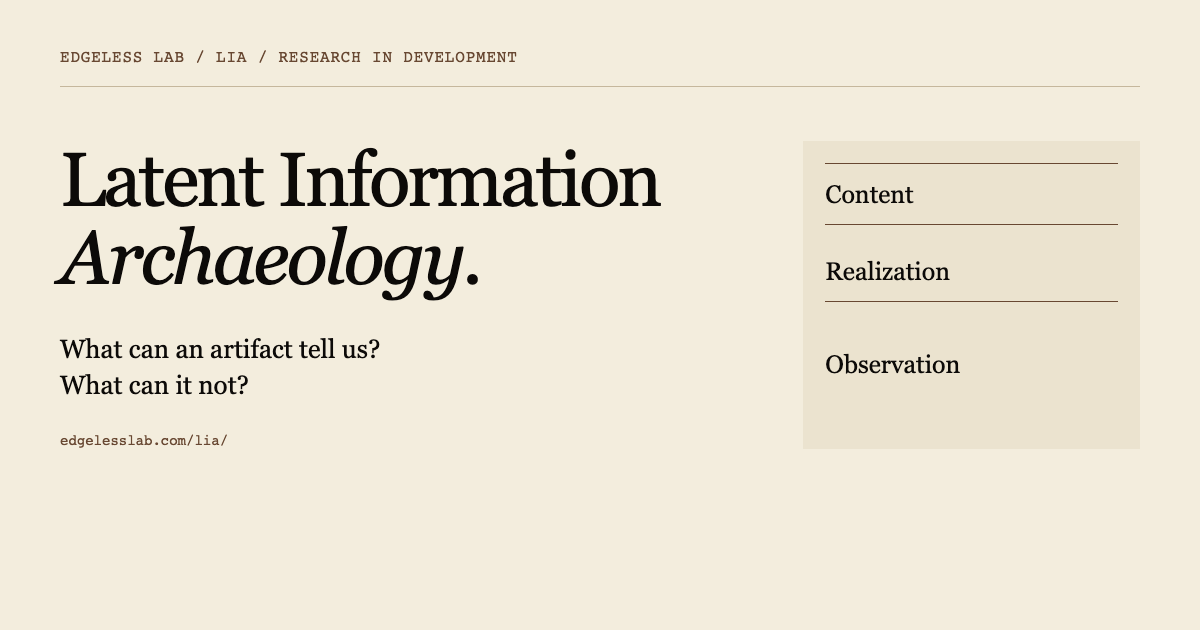
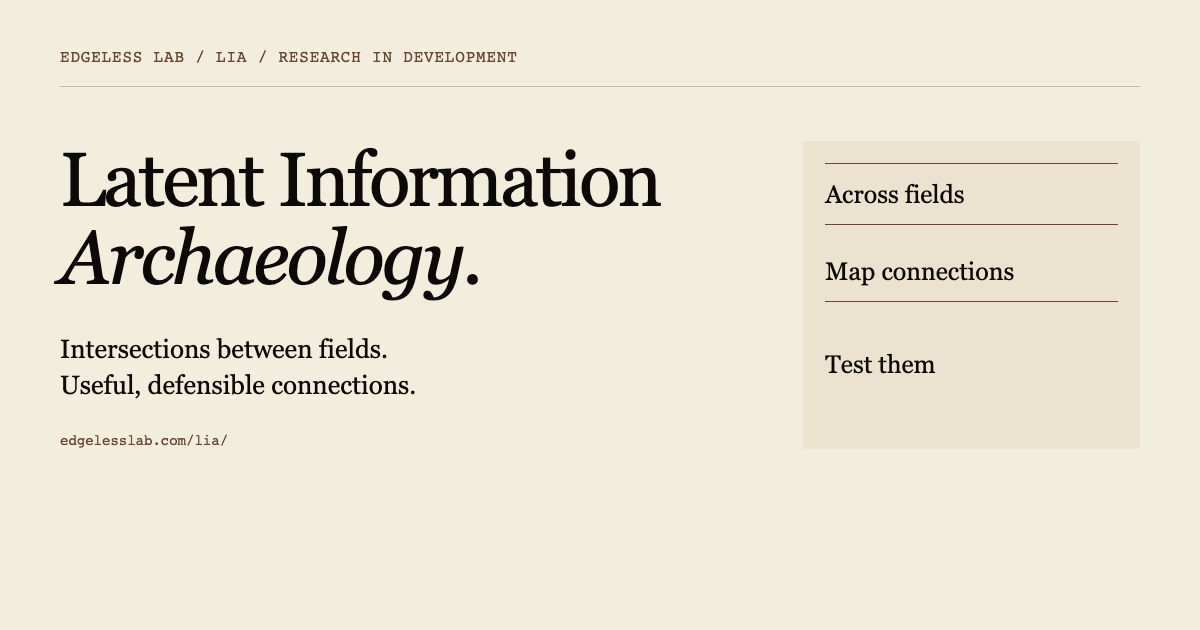
Fix LIA public definition to intersections between fields

diff --git a/public/lia/index.html b/public/lia/index.html
@@ -1,15 +1,14 @@
 <!doctype html>
-<html lang="en"><head><meta charset="utf-8"><meta name="viewport" content="width=device-width,initial-scale=1"><title>Latent Information Archaeology | Edgeless Lab</title><meta name="description" content="A research program about artifacts, production choices, and the limits of inference."><link rel="canonical" href="https://edgelesslab.com/lia/"><meta property="og:type" content="article"><meta property="og:title" content="Latent Information Archaeology"><meta property="og:description" content="A research program about artifacts, production choices, and the limits of inference."><meta property="og:url" content="https://edgelesslab.com/lia/"><meta property="og:image" content="https://edgelesslab.com/lia/og-image.png"><meta property="og:image:width" content="1200"><meta property="og:image:height" content="630"><meta property="og:image:alt" content="Latent Information Archaeology: content, realization, observation"><meta name="twitter:card" content="summary_large_image"><meta name="twitter:image" content="https://edgelesslab.com/lia/og-image.png"><style>
+<html lang="en"><head><meta charset="utf-8"><meta name="viewport" content="width=device-width,initial-scale=1"><title>Latent Information Archaeology | Edgeless Lab</title><meta name="description" content="LIA studies the intersections between fields: useful, defensible connections across bodies of knowledge."><link rel="canonical" href="https://edgelesslab.com/lia/"><meta property="og:type" content="article"><meta property="og:title" content="Latent Information Archaeology"><meta property="og:description" content="LIA studies the intersections between fields: useful, defensible connections across bodies of knowledge."><meta property="og:url" content="https://edgelesslab.com/lia/"><meta property="og:image" content="https://edgelesslab.com/lia/og-image.png"><meta property="og:image:width" content="1200"><meta property="og:image:height" content="630"><meta property="og:image:alt" content="Latent Information Archaeology: intersections between fields"><meta name="twitter:card" content="summary_large_image"><meta name="twitter:image" content="https://edgelesslab.com/lia/og-image.png"><style>
 :root{color-scheme:light;--paper:#f3eddd;--deep:#ebe3cf;--ink:#0c0a08;--soft:#2a2520;--accent:#684832;--rule:#c5b79c}
 *{box-sizing:border-box}body{margin:0;background:var(--paper);color:var(--ink);font:19px/1.7 Georgia,'Times New Roman',serif}a{color:var(--accent);text-decoration-thickness:1px;text-underline-offset:.22em}a:hover{color:var(--ink)}a:focus-visible{outline:2px solid var(--accent);outline-offset:5px}.skip{position:absolute;top:-100px;left:20px}.skip:focus{top:10px;background:var(--paper);padding:10px;z-index:2}.meta,nav,footer,.label{font:12px/1.6 ui-monospace,'SF Mono',monospace;letter-spacing:.06em}.meta{display:flex;justify-content:space-between;gap:20px;padding:18px 5vw;border-bottom:1px solid var(--rule)}nav{display:flex;flex-wrap:wrap;gap:12px 28px;padding:18px 5vw}nav a{padding:6px 0}main{max-width:1280px;margin:auto;padding:54px 5vw 100px}h1,h2,h3{font-weight:400;line-height:1.08;text-wrap:balance}h1{font-size:clamp(3.1rem,7vw,6rem);letter-spacing:-.035em;margin:22px 0 34px}h2{font-size:clamp(2rem,4vw,2.8rem);margin:64px 0 24px}h3{font-size:1.65rem;margin:36px 0 18px}p{margin:0 0 24px}.label{color:var(--accent)}.hero{display:grid;grid-template-columns:1.4fr .6fr;gap:60px;align-items:end;padding-bottom:56px;border-bottom:1px solid var(--ink)}.deck{max-width:36ch;font-size:24px;line-height:1.4;font-style:italic}.strata{margin:0;background:var(--deep);padding:26px 22px}.strata div{border-top:1px solid var(--accent);padding:14px 0;font-size:17px}.strata div:nth-child(2){padding-top:24px}.strata div:nth-child(3){padding-top:38px}.strata figcaption{font:12px/1.6 ui-monospace,monospace;color:var(--soft);margin-top:20px}.reading{max-width:68ch}.intro{margin:58px 0 70px}.index{border-top:1px solid var(--ink);padding-top:10px}.index li{margin-bottom:28px;padding-left:6px}.index ul{padding-left:22px;max-width:70ch}.index a{font-size:24px}.note-header{max-width:1000px;border-bottom:1px solid var(--ink);padding-bottom:30px}.note-layout{display:grid;grid-template-columns:220px minmax(0,1fr);gap:65px;margin-top:48px}.toc{font:14px/1.6 ui-monospace,monospace}.toc ol{padding-left:20px}.toc li{margin-bottom:16px}.toc a{display:inline-block;padding:4px 0}article{min-width:0}article h2:first-of-type{margin-top:48px}blockquote{margin:36px 0;padding:24px 0;border-block:1px solid var(--accent);font-size:25px;line-height:1.4}blockquote p{margin:0}footer{padding:30px 5vw;border-top:1px solid var(--rule);display:flex;justify-content:space-between;gap:24px;flex-wrap:wrap}footer a{margin-right:22px}::selection{background:var(--accent);color:var(--paper)}@media(max-width:760px){body{font-size:18px}.meta{font-size:11px;flex-wrap:wrap;gap:6px}main{padding-top:30px}.hero{grid-template-columns:1fr;gap:24px}.strata{max-width:100%}.note-layout{grid-template-columns:1fr;gap:30px}.toc{border-bottom:1px solid var(--rule);padding-bottom:24px}.deck{font-size:22px}.index a{font-size:22px}}
 </style></head>
-<body><a class="skip" href="#main-content">Skip to content</a><header><div class="meta"><span>EDGELESS LAB / LATENT INFORMATION ARCHAEOLOGY</span><span>RESEARCH IN DEVELOPMENT</span></div><nav aria-label="Main navigation"><a href="/">Edgeless Lab</a><a href="/field-notes/">Field Notes</a><a href="/lia/" aria-current="page">LIA</a><a href="/blog/">Blog</a><a href="https://shop.edgelesslab.com">Shop</a></nav></header><main id="main-content" tabindex="-1"><div class="hero"><div><div class="label">LIA / an Edgeless Lab research program</div><h1>Latent Information<br><em>Archaeology.</em></h1></div><figure class="strata"><div>Content<br><em>What the artifact says</em></div><div>Realization<br><em>How it takes form</em></div><div>Observation<br><em>What reaches us</em></div><figcaption>A working distinction, not a universal model.</figcaption></figure></div><section class="intro reading"><h2 id="what-is-lia">What is LIA?</h2>
-<p>Latent Information Archaeology is an Edgeless Lab research program about the difference between an artifact's content and the way that content takes form. Its founding question is practical: what can choices of spelling, layout, notation, formatting, or structure tell us about the circumstances of production—and what can they not tell us?</p>
-<p>LIA proposes a shared vocabulary for comparing such questions without erasing the differences between clay tablets, printed pages, and digital files. A pattern might reflect a tool, a habit, a convention, a constraint, or a later transformation. Calling it information does not establish intention, and successful prediction does not by itself identify who made a choice or why.</p>
-<p>This section begins with a methodological field note and two interactive creative demos. The note reads published precedents and explains the proposed discipline: name the representation, separate observation from explanation, check attribution and selection, and preserve “unidentified” as an honest outcome. The demos are exploratory interfaces, not empirical confirmation of the research framework. One concerns the software artist LIA: that shared name is not an identification of the artist with this research program.</p>
-<p>The program's proposed value is something to test against existing approaches. This is a place to inspect questions and instruments in development, not an announcement that a hidden message or a new historical mechanism has been discovered.</p></section><section class="index" data-lia-index><h2 id="explore-lia">Explore LIA</h2>
-<h3>Field note</h3>
-<ul><li><a href="/lia/building-an-instrument-that-can-say-no/">Building an Instrument That Can Say No</a> — A methodological proposal with public sources and explicit limits; not an empirical discovery announcement.</li></ul>
+<body><a class="skip" href="#main-content">Skip to content</a><header><div class="meta"><span>EDGELESS LAB / LATENT INFORMATION ARCHAEOLOGY</span><span>RESEARCH IN DEVELOPMENT</span></div><nav aria-label="Main navigation"><a href="/">Edgeless Lab</a><a href="/field-notes/">Field Notes</a><a href="/lia/" aria-current="page">LIA</a><a href="/blog/">Blog</a><a href="https://shop.edgelesslab.com">Shop</a></nav></header><main id="main-content" tabindex="-1"><div class="hero"><div><div class="label">LIA / an Edgeless Lab research program</div><h1>Latent Information<br><em>Archaeology.</em></h1><p class="deck">Latent Information Archaeology studies the intersections between fields: useful, defensible connections across bodies of knowledge.</p></div><figure class="strata"><div>Across fields<br><em>Science, humanities, art, engineering</em></div><div>Map the connection<br><em>Prior art and disanalogies</em></div><div>Test it<br><em>A useful consequence, a discriminating test</em></div><figcaption>A connection is a question to test, not a discovery to announce.</figcaption></figure></div><section class="intro reading"><h2 id="what-is-lia">What is LIA?</h2>
+<p>Latent Information Archaeology studies the intersections between fields: useful, defensible connections across bodies of knowledge.</p>
+<p>LIA explores connections across science, mathematics, humanities, engineering, history, art, books, libraries, and institutions. A connection needs a mapping, prior art, disanalogies, a useful consequence, and a discriminating test. Shared vocabulary or model agreement does not establish a discovery.</p>
+<p>This section collects work in development, not confirmed discoveries. The methods note considers the limits of inference in one area: reading artifacts. It does not define the scope of LIA. The creative demos are exploratory interfaces, not empirical validation. One concerns the software artist LIA, who is distinct from this research program.</p></section><section class="index" data-lia-index><h2 id="explore-lia">Explore LIA</h2>
+<h3>Methods note</h3>
+<ul><li><a href="/lia/building-an-instrument-that-can-say-no/">Building an Instrument That Can Say No</a> — A methods note on reading artifacts and the limits of inference, not a definition of LIA or an empirical discovery announcement.</li></ul>
 <h3>Related creative demos</h3>
 <p>These existing Edgeless Lab demos are contextual links, not research results or validation of Latent Information Archaeology.</p>
 <ul><li><a href="/creative-demos/code-as-a-field-of-relation/">Code as a Field of Relation</a> — A graph-based exploration of the software artist LIA's practice. The artist and this research program share a name; the page is not a history of the research program.</li><li><a href="/creative-demos/the-rule-and-the-machine/">The Rule and the Machine</a> — A graph-based exploration of generative art and rule-based making.</li></ul>

diff --git a/public/lia/building-an-instrument-that-can-say-no/index.html b/public/lia/building-an-instrument-that-can-say-no/index.html
@@ -1,11 +1,11 @@
 <!doctype html>
-<html lang="en"><head><meta charset="utf-8"><meta name="viewport" content="width=device-width,initial-scale=1"><title>Building an Instrument That Can Say No | Edgeless Lab</title><meta name="description" content="A research-method field note about reading artifacts without turning a pattern into an unsupported story."><link rel="canonical" href="https://edgelesslab.com/lia/building-an-instrument-that-can-say-no/"><meta property="og:type" content="article"><meta property="og:title" content="Building an Instrument That Can Say No"><meta property="og:description" content="A research-method field note about reading artifacts without turning a pattern into an unsupported story."><meta property="og:url" content="https://edgelesslab.com/lia/building-an-instrument-that-can-say-no/"><meta property="og:image" content="https://edgelesslab.com/lia/og-image.png"><meta property="og:image:width" content="1200"><meta property="og:image:height" content="630"><meta property="og:image:alt" content="Latent Information Archaeology: content, realization, observation"><meta name="twitter:card" content="summary_large_image"><meta name="twitter:image" content="https://edgelesslab.com/lia/og-image.png"><style>
+<html lang="en"><head><meta charset="utf-8"><meta name="viewport" content="width=device-width,initial-scale=1"><title>Building an Instrument That Can Say No | Edgeless Lab</title><meta name="description" content="A research-method field note about reading artifacts without turning a pattern into an unsupported story."><link rel="canonical" href="https://edgelesslab.com/lia/building-an-instrument-that-can-say-no/"><meta property="og:type" content="article"><meta property="og:title" content="Building an Instrument That Can Say No"><meta property="og:description" content="A research-method field note about reading artifacts without turning a pattern into an unsupported story."><meta property="og:url" content="https://edgelesslab.com/lia/building-an-instrument-that-can-say-no/"><meta property="og:image" content="https://edgelesslab.com/lia/og-image.png"><meta property="og:image:width" content="1200"><meta property="og:image:height" content="630"><meta property="og:image:alt" content="Latent Information Archaeology: intersections between fields"><meta name="twitter:card" content="summary_large_image"><meta name="twitter:image" content="https://edgelesslab.com/lia/og-image.png"><style>
 :root{color-scheme:light;--paper:#f3eddd;--deep:#ebe3cf;--ink:#0c0a08;--soft:#2a2520;--accent:#684832;--rule:#c5b79c}
 *{box-sizing:border-box}body{margin:0;background:var(--paper);color:var(--ink);font:19px/1.7 Georgia,'Times New Roman',serif}a{color:var(--accent);text-decoration-thickness:1px;text-underline-offset:.22em}a:hover{color:var(--ink)}a:focus-visible{outline:2px solid var(--accent);outline-offset:5px}.skip{position:absolute;top:-100px;left:20px}.skip:focus{top:10px;background:var(--paper);padding:10px;z-index:2}.meta,nav,footer,.label{font:12px/1.6 ui-monospace,'SF Mono',monospace;letter-spacing:.06em}.meta{display:flex;justify-content:space-between;gap:20px;padding:18px 5vw;border-bottom:1px solid var(--rule)}nav{display:flex;flex-wrap:wrap;gap:12px 28px;padding:18px 5vw}nav a{padding:6px 0}main{max-width:1280px;margin:auto;padding:54px 5vw 100px}h1,h2,h3{font-weight:400;line-height:1.08;text-wrap:balance}h1{font-size:clamp(3.1rem,7vw,6rem);letter-spacing:-.035em;margin:22px 0 34px}h2{font-size:clamp(2rem,4vw,2.8rem);margin:64px 0 24px}h3{font-size:1.65rem;margin:36px 0 18px}p{margin:0 0 24px}.label{color:var(--accent)}.hero{display:grid;grid-template-columns:1.4fr .6fr;gap:60px;align-items:end;padding-bottom:56px;border-bottom:1px solid var(--ink)}.deck{max-width:36ch;font-size:24px;line-height:1.4;font-style:italic}.strata{margin:0;background:var(--deep);padding:26px 22px}.strata div{border-top:1px solid var(--accent);padding:14px 0;font-size:17px}.strata div:nth-child(2){padding-top:24px}.strata div:nth-child(3){padding-top:38px}.strata figcaption{font:12px/1.6 ui-monospace,monospace;color:var(--soft);margin-top:20px}.reading{max-width:68ch}.intro{margin:58px 0 70px}.index{border-top:1px solid var(--ink);padding-top:10px}.index li{margin-bottom:28px;padding-left:6px}.index ul{padding-left:22px;max-width:70ch}.index a{font-size:24px}.note-header{max-width:1000px;border-bottom:1px solid var(--ink);padding-bottom:30px}.note-layout{display:grid;grid-template-columns:220px minmax(0,1fr);gap:65px;margin-top:48px}.toc{font:14px/1.6 ui-monospace,monospace}.toc ol{padding-left:20px}.toc li{margin-bottom:16px}.toc a{display:inline-block;padding:4px 0}article{min-width:0}article h2:first-of-type{margin-top:48px}blockquote{margin:36px 0;padding:24px 0;border-block:1px solid var(--accent);font-size:25px;line-height:1.4}blockquote p{margin:0}footer{padding:30px 5vw;border-top:1px solid var(--rule);display:flex;justify-content:space-between;gap:24px;flex-wrap:wrap}footer a{margin-right:22px}::selection{background:var(--accent);color:var(--paper)}@media(max-width:760px){body{font-size:18px}.meta{font-size:11px;flex-wrap:wrap;gap:6px}main{padding-top:30px}.hero{grid-template-columns:1fr;gap:24px}.strata{max-width:100%}.note-layout{grid-template-columns:1fr;gap:30px}.toc{border-bottom:1px solid var(--rule);padding-bottom:24px}.deck{font-size:22px}.index a{font-size:22px}}
 </style></head>
 <body><a class="skip" href="#main-content">Skip to content</a><header><div class="meta"><span>EDGELESS LAB / LATENT INFORMATION ARCHAEOLOGY</span><span>RESEARCH IN DEVELOPMENT</span></div><nav aria-label="Main navigation"><a href="/">Edgeless Lab</a><a href="/field-notes/">Field Notes</a><a href="/lia/">LIA</a><a href="/blog/">Blog</a><a href="https://shop.edgelesslab.com">Shop</a></nav></header><main id="main-content" tabindex="-1"><header class="note-header"><div class="label">Field Notes / methodology / filed 2026.11.18</div><h1>Building an Instrument That Can Say No</h1><p class="deck">A research-method field note about reading artifacts without turning a pattern into an unsupported story.</p></header><div class="note-layout"><aside class="toc"><nav aria-label="In this field note"><div>IN THIS FIELD NOTE<ol><li><a href="#what-latent-information-means-here">What “latent information” means here</a></li><li><a href="#start-with-what-other-fields-already-know">Start with what other fields already know</a></li><li><a href="#the-observer-is-part-of-the-problem">The observer is part of the problem</a></li><li><a href="#attribution-is-not-identity-and-identity-is-not-agency">Attribution is not identity, and identity is not agency</a></li><li><a href="#a-real-analogy-can-still-be-old">A real analogy can still be old</a></li><li><a href="#what-an-instrument-would-have-to-demonstrate">What an instrument would have to demonstrate</a></li></ol></div></nav></aside><article class="reading"><p><em>Latent Information Archaeology — an Edgeless Lab research program.</em></p>
 <p>A pattern is not yet an explanation. A spelling, a mark in clay, or a repeated source-code idiom can invite a story about the person who made it. The harder question is whether the evidence supports that story rather than another one.</p>
-<p>Latent Information Archaeology, or LIA, is our proposal for asking that question across artifact types. This field note presents a working vocabulary and a reading of published examples, <strong>not a report of a new empirical discovery</strong>. Its ambition is an instrument that can help a claim be earned, bounded, or refused. Whether that instrument adds value beyond existing methods remains a question to test, not an achievement announced here.</p>
+<p>Latent Information Archaeology (LIA) studies the intersections between fields: useful, defensible connections across bodies of knowledge. This methods note addresses one narrower question within that work: inference across artifact types. It is not the definition of the research program. This field note presents a working vocabulary and a reading of published examples, <strong>not a report of a new empirical discovery</strong>. Its ambition is an instrument that can help a claim be earned, bounded, or refused. Whether that instrument adds value beyond existing methods remains a question to test, not an achievement announced here.</p>
 <h2 id="what-latent-information-means-here">What “latent information” means here</h2>
 <p>Our working definition concerns dependence in <em>how</em> content is realized, given specified content and production conditions. “Dependence” means a statistical relationship: learning something about one variable changes what can be predicted about another. It does not mean that a maker intended to communicate. Information theory supplies distinctions between statistical dependence and recoverability; it does not, by itself, identify a historical maker's intention. Scarlett and Cevher's <a href="https://arxiv.org/abs/1901.00555">guide to Fano's inequality</a> explains how information quantities can bound estimation error under explicit assumptions.</p>
 <p>We therefore propose keeping several questions separate. What variation do we observe? Which production choices were actually available? Which person, tool, or process made them? What happened between production and observation? Is the target we want to predict defined independently of the features used to predict it?</p>

diff --git a/tests/lia.spec.ts b/tests/lia.spec.ts
@@ -7,6 +7,11 @@ test('LIA cleared artifacts, registry, privacy and navigation', async ({ page, r
   expect((await request.get('/lia/')).status()).toBe(200);
   await page.goto('/lia/');
   await expect(page.getByRole('heading', { level: 1 })).toContainText('Archaeology');
+  const definition = 'Latent Information Archaeology studies the intersections between fields: useful, defensible connections across bodies of knowledge.';
+  await expect(page.locator('.hero .deck')).toHaveText(definition);
+  await expect(page.locator('.intro p').first()).toHaveText(definition);
+  await expect(page.locator('main')).not.toContainText('the way that content takes form');
+  await expect(page.getByRole('heading', { name: 'Methods note', exact: true })).toBeVisible();
   const indexed = await page.locator('[data-lia-index] a').evaluateAll(nodes => nodes.map(a => a.getAttribute('href')!));
   expect(indexed).toEqual([note.href, '/creative-demos/code-as-a-field-of-relation/', '/creative-demos/the-rule-and-the-machine/']);
   for (const href of indexed) expect((await request.get(href)).status()).toBe(200);

diff --git a/src/app/llms.txt/route.ts b/src/app/llms.txt/route.ts
@@ -78,7 +78,7 @@ export async function GET(): Promise<Response> {
 
 ## Field Notes (interactive, readable without JavaScript)
 
-- [Latent Information Archaeology](${SITE_URL}/lia/): a research program about artifact realization and the limits of inference; demos are contextual, not empirical validation
+- [Latent Information Archaeology](${SITE_URL}/lia/): a research program studying intersections between fields and useful, defensible connections across bodies of knowledge; demos are contextual, not empirical validation
 ${researchFieldNotes.map(note => `- [${note.title}](${SITE_URL}${note.href}) (${note.date}, methodological field note): ${note.description}`).join("\n")}
 
 ${fieldNotes.map(fieldNoteLine).join("\n")}

diff --git a/scripts/build-lia.py b/scripts/build-lia.py
@@ -48,7 +48,7 @@ CSS = '''
 
 def page(title, description, path, body):
     return f'''<!doctype html>
-<html lang="en"><head><meta charset="utf-8"><meta name="viewport" content="width=device-width,initial-scale=1"><title>{title} | Edgeless Lab</title><meta name="description" content="{description}"><link rel="canonical" href="https://edgelesslab.com{path}"><meta property="og:type" content="article"><meta property="og:title" content="{title}"><meta property="og:description" content="{description}"><meta property="og:url" content="https://edgelesslab.com{path}"><meta property="og:image" content="https://edgelesslab.com/lia/og-image.png"><meta property="og:image:width" content="1200"><meta property="og:image:height" content="630"><meta property="og:image:alt" content="Latent Information Archaeology: content, realization, observation"><meta name="twitter:card" content="summary_large_image"><meta name="twitter:image" content="https://edgelesslab.com/lia/og-image.png"><style>{CSS}</style></head>
+<html lang="en"><head><meta charset="utf-8"><meta name="viewport" content="width=device-width,initial-scale=1"><title>{title} | Edgeless Lab</title><meta name="description" content="{description}"><link rel="canonical" href="https://edgelesslab.com{path}"><meta property="og:type" content="article"><meta property="og:title" content="{title}"><meta property="og:description" content="{description}"><meta property="og:url" content="https://edgelesslab.com{path}"><meta property="og:image" content="https://edgelesslab.com/lia/og-image.png"><meta property="og:image:width" content="1200"><meta property="og:image:height" content="630"><meta property="og:image:alt" content="Latent Information Archaeology: intersections between fields"><meta name="twitter:card" content="summary_large_image"><meta name="twitter:image" content="https://edgelesslab.com/lia/og-image.png"><style>{CSS}</style></head>
 <body><a class="skip" href="#main-content">Skip to content</a><header><div class="meta"><span>EDGELESS LAB / LATENT INFORMATION ARCHAEOLOGY</span><span>RESEARCH IN DEVELOPMENT</span></div><nav aria-label="Main navigation"><a href="/">Edgeless Lab</a><a href="/field-notes/">Field Notes</a><a href="/lia/"{' aria-current="page"' if path == '/lia/' else ''}>LIA</a><a href="/blog/">Blog</a><a href="https://shop.edgelesslab.com">Shop</a></nav></header><main id="main-content" tabindex="-1">{body}</main><footer><span>Edgeless Lab / public research studio</span><div><a href="/lia/">LIA index</a><a href="/field-notes/">Field Notes</a><a href="/about/">About</a></div></footer></body></html>'''
 
 
@@ -57,9 +57,9 @@ def build():
     intro = (CONTENT / 'lia-section-intro-v0.1.md').read_text()
     index = (CONTENT / 'lia-public-index-v0.1.md').read_text()
     note = (CONTENT / 'field-note-public-draft-v0.3.md').read_text()
-    landing = '''<div class="hero"><div><div class="label">LIA / an Edgeless Lab research program</div><h1>Latent Information<br><em>Archaeology.</em></h1></div><figure class="strata"><div>Content<br><em>What the artifact says</em></div><div>Realization<br><em>How it takes form</em></div><div>Observation<br><em>What reaches us</em></div><figcaption>A working distinction, not a universal model.</figcaption></figure></div>'''
+    landing = '''<div class="hero"><div><div class="label">LIA / an Edgeless Lab research program</div><h1>Latent Information<br><em>Archaeology.</em></h1><p class="deck">Latent Information Archaeology studies the intersections between fields: useful, defensible connections across bodies of knowledge.</p></div><figure class="strata"><div>Across fields<br><em>Science, humanities, art, engineering</em></div><div>Map the connection<br><em>Prior art and disanalogies</em></div><div>Test it<br><em>A useful consequence, a discriminating test</em></div><figcaption>A connection is a question to test, not a discovery to announce.</figcaption></figure></div>'''
     landing += '<section class="intro reading">' + markdown(intro) + '</section><section class="index" data-lia-index>' + markdown(index) + '</section>'
-    (OUT / 'index.html').write_text(page('Latent Information Archaeology', 'A research program about artifacts, production choices, and the limits of inference.', '/lia/', landing))
+    (OUT / 'index.html').write_text(page('Latent Information Archaeology', 'LIA studies the intersections between fields: useful, defensible connections across bodies of knowledge.', '/lia/', landing))
     headings = re.findall(r'^## (.+)$', note, flags=re.M)
     toc = '<aside class="toc"><nav aria-label="In this field note"><div>IN THIS FIELD NOTE<ol>' + ''.join('<li><a href="#' + re.sub(r'[^a-z0-9]+', '-', h.lower()).strip('-') + '">' + html.escape(h) + '</a></li>' for h in headings) + '</ol></div></nav></aside>'
     body = f'<header class="note-header"><div class="label">Field Notes / methodology / filed 2026.11.18</div><h1>{TITLE}</h1><p class="deck">A research-method field note about reading artifacts without turning a pattern into an unsupported story.</p></header><div class="note-layout">' + toc + '<article class="reading">' + markdown(note) + '</article></div>'

diff --git a/docs/lia-publication.md b/docs/lia-publication.md
@@ -18,6 +18,43 @@ Implementation is not a live-publication claim. A critic must inspect the 375px 
 
 The initial local citation probe saw source-site bot walls at SOAS, Southampton PDF, and Oxford Academic. Browser recovery confirms the 403s are security interstitials, not verified missing documents. The UVA source returns 202 but renders the cited Kable article. Do not claim all citation URLs passed. Do not silently replace the approved citation URLs or alter the cleared prose; resolve access checks in the verifier lane or report an explicit remaining limitation.
 
+## Definition correction — 2026-11-25
+
+LIA studies the intersections between fields: useful, defensible connections
+across bodies of knowledge. The hero, introductory source, description/OG tags,
+OG PNG and llms.txt summary now lead with that definition. The versioned intro
+was edited in place, including the upstream project docs copy, so existing
+long-form references do not import the agent-originated, incorrect definition again.
+LIA is and always was about intersections between fields. The artifact-form framing
+was an assistant proposal carried into the docs and site by agents, never David's
+earlier scope or a project evolution. Public copy states the definition directly,
+without an origin/evolution narrative.
+
+The index labels *Building an Instrument That Can Say No* as a methods note,
+and its opening now bounds it as an artifact-inference example rather than the
+program definition. Its deeper content/realization vocabulary, clay/print/code
+examples, historical discussion and citations remain unchanged. The two creative
+demos remain unchanged: their LIA references concern the software artist, not the
+research program. The archive's methods-note title and description still accurately
+describe that narrower note. No discoveries or empirical validation are claimed.
+
+`npm run test:lia` checks generated-byte drift and the definition in the hero,
+intro, metadata, agent index and OG source. `tests/lia.spec.ts` also checks the
+visible definition, methods label, demo links and mobile overflow in Chromium.
+
+The requested dated correction was appended to the vault's
+`16-Projects/Latent-Information-Archaeology/Scope-and-continuity.md`.
+The AGENTS.md rule edit was **not applied**: the protected-file approval gate
+returned no consent. Do not bypass that gate. An authorized instruction-file edit remains
+required; CLAUDE.md delegates to AGENTS.md. The rule should prohibit artifact-form
+or content-versus-realization as the public definition and require the cross-field
+definition in public summaries and introductions.
+
+Review handoff is not publication. Critic reviews this diff; verifier performs the
+merge/deploy and captures a **live custom-domain** screenshot after checking the
+hero contains `intersections` and the old `the way that content takes form` phrase
+has zero matches. Local screenshots are previews, not live evidence.
+
 ## Optional `lia.edgelesslab.com` redirect (not provisioned by this PR)
 
 The main Pages repository already uses `edgelesslab.com`; **do not change its CNAME, Pages owner, or apex DNS**. A second repository can own the subdomain. Proposed exact redirect repository: `edgeless-ai/lia-redirect`. This repository does not exist as part of this change; create it only when carrying out these steps.

diff --git a/content/lia/lia-section-intro-v0.1.md b/content/lia/lia-section-intro-v0.1.md
@@ -1,9 +1,7 @@
 ## What is LIA?
 
-Latent Information Archaeology is an Edgeless Lab research program about the difference between an artifact's content and the way that content takes form. Its founding question is practical: what can choices of spelling, layout, notation, formatting, or structure tell us about the circumstances of production—and what can they not tell us?
+Latent Information Archaeology studies the intersections between fields: useful, defensible connections across bodies of knowledge.
 
-LIA proposes a shared vocabulary for comparing such questions without erasing the differences between clay tablets, printed pages, and digital files. A pattern might reflect a tool, a habit, a convention, a constraint, or a later transformation. Calling it information does not establish intention, and successful prediction does not by itself identify who made a choice or why.
+LIA explores connections across science, mathematics, humanities, engineering, history, art, books, libraries, and institutions. A connection needs a mapping, prior art, disanalogies, a useful consequence, and a discriminating test. Shared vocabulary or model agreement does not establish a discovery.
 
-This section begins with a methodological field note and two interactive creative demos. The note reads published precedents and explains the proposed discipline: name the representation, separate observation from explanation, check attribution and selection, and preserve “unidentified” as an honest outcome. The demos are exploratory interfaces, not empirical confirmation of the research framework. One concerns the software artist LIA: that shared name is not an identification of the artist with this research program.
-
-The program's proposed value is something to test against existing approaches. This is a place to inspect questions and instruments in development, not an announcement that a hidden message or a new historical mechanism has been discovered.
+This section collects work in development, not confirmed discoveries. The methods note considers the limits of inference in one area: reading artifacts. It does not define the scope of LIA. The creative demos are exploratory interfaces, not empirical validation. One concerns the software artist LIA, who is distinct from this research program.

diff --git a/content/lia/field-note-public-draft-v0.3.md b/content/lia/field-note-public-draft-v0.3.md
@@ -15,7 +15,7 @@ editorial: true
 
 A pattern is not yet an explanation. A spelling, a mark in clay, or a repeated source-code idiom can invite a story about the person who made it. The harder question is whether the evidence supports that story rather than another one.
 
-Latent Information Archaeology, or LIA, is our proposal for asking that question across artifact types. This field note presents a working vocabulary and a reading of published examples, **not a report of a new empirical discovery**. Its ambition is an instrument that can help a claim be earned, bounded, or refused. Whether that instrument adds value beyond existing methods remains a question to test, not an achievement announced here.
+Latent Information Archaeology (LIA) studies the intersections between fields: useful, defensible connections across bodies of knowledge. This methods note addresses one narrower question within that work: inference across artifact types. It is not the definition of the research program. This field note presents a working vocabulary and a reading of published examples, **not a report of a new empirical discovery**. Its ambition is an instrument that can help a claim be earned, bounded, or refused. Whether that instrument adds value beyond existing methods remains a question to test, not an achievement announced here.
 
 ## What “latent information” means here
 

diff --git a/content/lia/lia-public-index-v0.1.md b/content/lia/lia-public-index-v0.1.md
@@ -1,8 +1,8 @@
 ## Explore LIA
 
-### Field note
+### Methods note
 
-- [Building an Instrument That Can Say No](/lia/building-an-instrument-that-can-say-no/) — A methodological proposal with public sources and explicit limits; not an empirical discovery announcement.
+- [Building an Instrument That Can Say No](/lia/building-an-instrument-that-can-say-no/) — A methods note on reading artifacts and the limits of inference, not a definition of LIA or an empirical discovery announcement.
 
 ### Related creative demos
 
